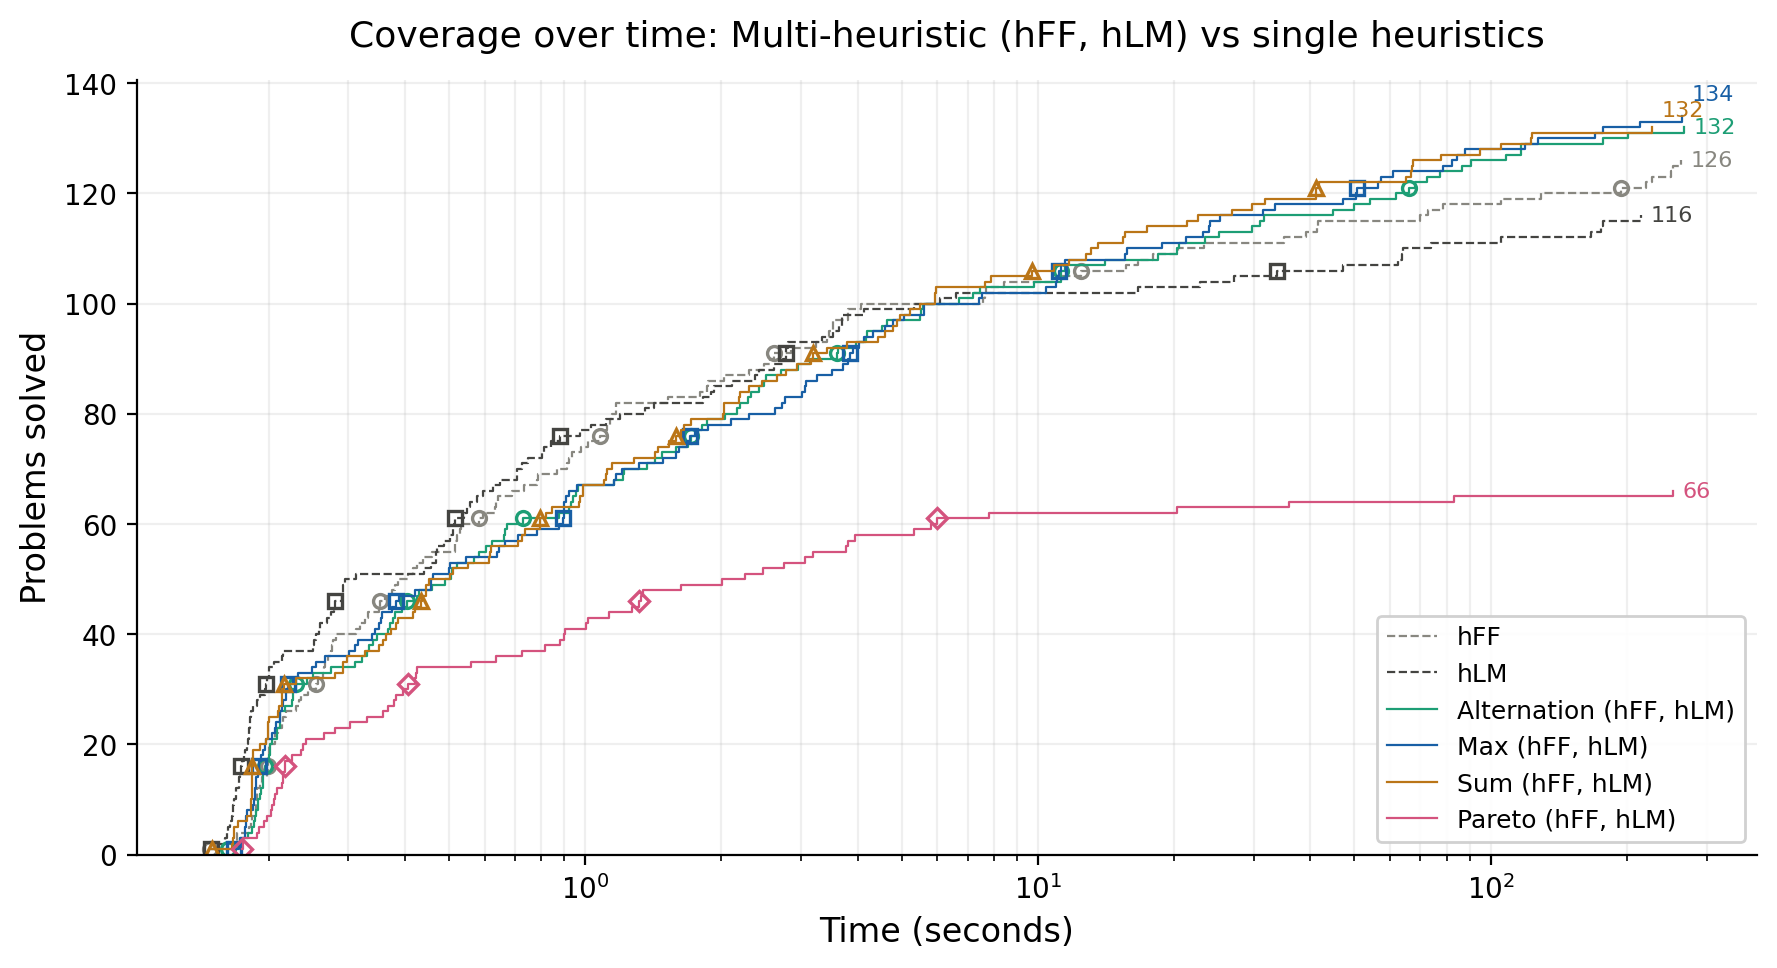
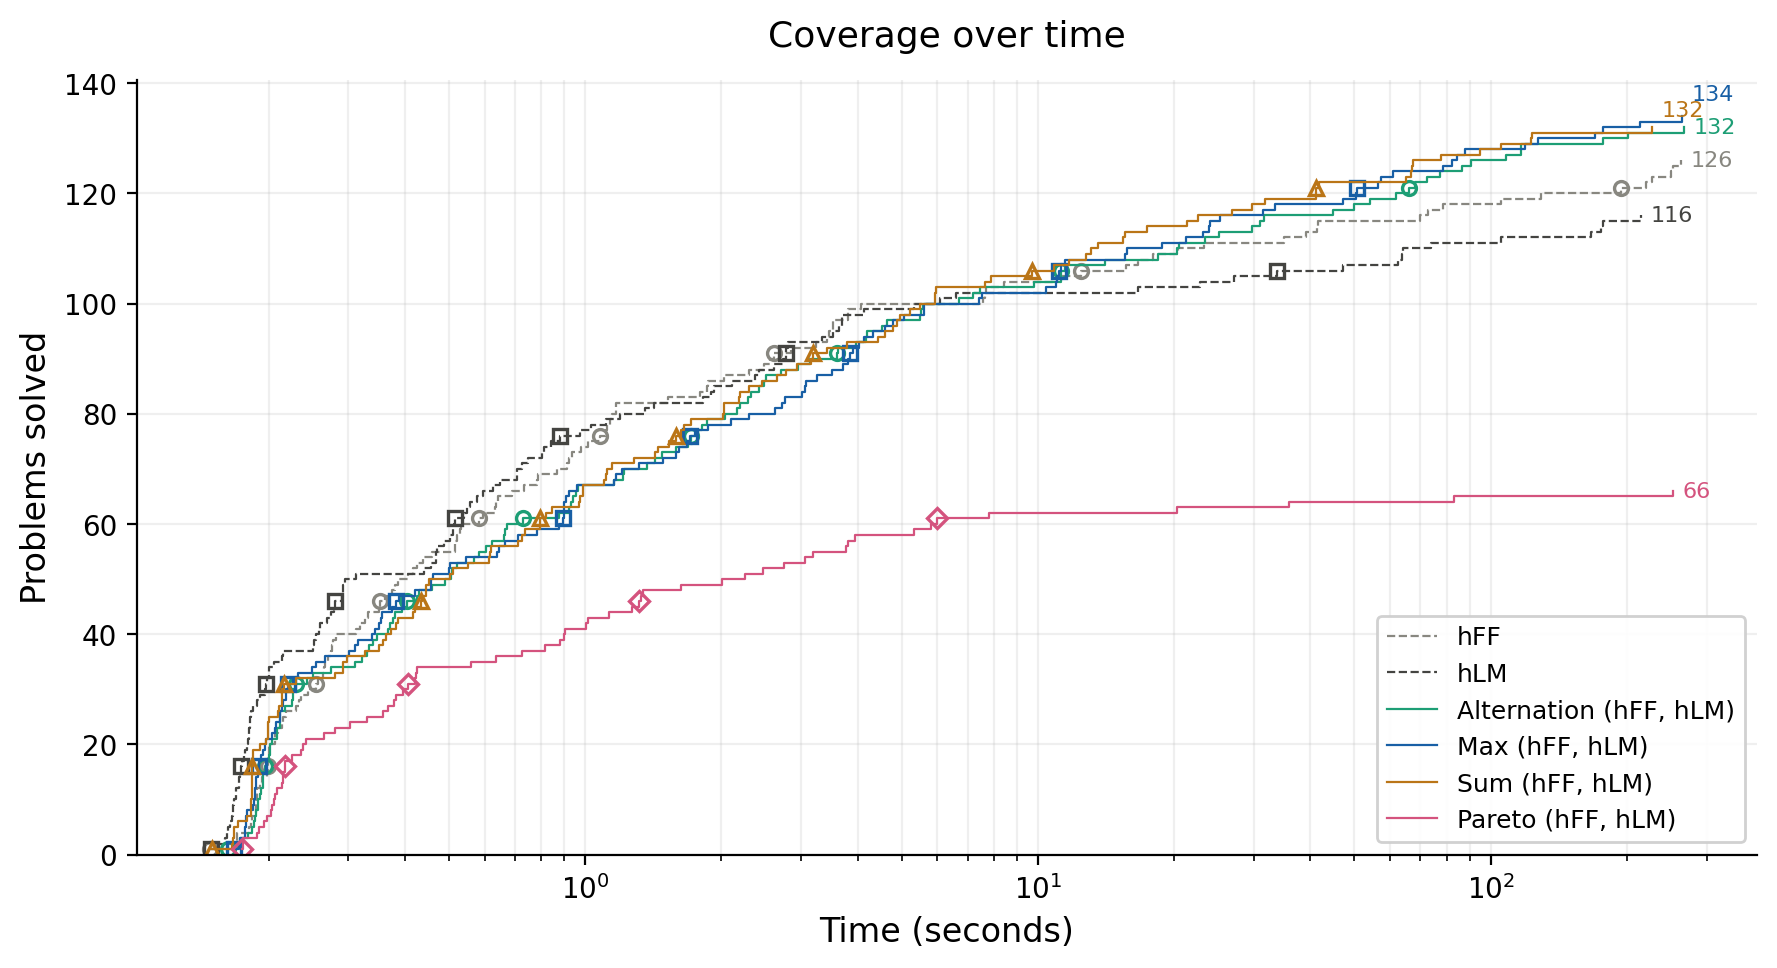
final changes

Changed region(s): [[0.1857, 0.0, 0.8666, 0.062]]

diff --git a/pyperplan/search/gbfs_multi.py b/pyperplan/search/gbfs_multi.py
@@ -102,6 +102,9 @@ class AlternationOpenList:
     One queue per heuristic, round-robin pop.
     Each node is pushed into all queues so every heuristic gets a turn.
     Duplicate pops are discarded by the closed set in gbfs_multi_search.
+
+    The turn only advances when a node is actually expanded (not closed),
+    ensuring each heuristic gets a fair share of the search.
     """
 
     def __init__(self, n_heuristics):
@@ -116,69 +119,73 @@ class AlternationOpenList:
         self._tiebreaker += 1
 
     def pop(self):
-        # Try each queue starting from the current turn; skip empty ones.
+        # Pop from current turn without advancing.
+        # Skip empty queues only.
         for _ in range(self._n):
             queue = self._queues[self._turn]
-            self._turn = (self._turn + 1) % self._n
             if queue:
                 _, _, node = heapq.heappop(queue)
                 return node
+            self._turn = (self._turn + 1) % self._n
         raise IndexError("pop from empty AlternationOpenList")
 
+    def advance_turn(self):
+        # Advance to the next heuristic for the next pop.
+        self._turn = (self._turn + 1) % self._n
+
     def __len__(self):
-        # A node is pushed into all n queues simultaneously. max() reflects
-        # the number of distinct nodes still present in the open list
-        # Returns 0 only when every queue is empty.
         return max(len(q) for q in self._queues)
 
 
 class ParetoOpenList:
     """
-    Keeps only non-dominated states on the frontier.
+    Maintains all open states and selects from the Pareto frontier on pop.
 
     State s dominates s' if:
       h_i(s) <= h_i(s')  for all i, AND
       h_j(s) <  h_j(s')  for at least one j.
 
-    Pop selects uniformly at random.
+    All states are inserted unconditionally. On pop, the Pareto frontier
+    (non-dominated states) is computed and one is selected uniformly at random.
     """
 
     def __init__(self):
-        self._frontier = []  # list of (h_values_tuple, node)
+        self._open = []  # list of (h_values_tuple, tiebreaker, node)
+        self._tiebreaker = 0
+
+    def push(self, node, h_values):
+        self._open.append((tuple(h_values), self._tiebreaker, node))
+        self._tiebreaker += 1
 
     def _dominates(self, h1, h2):
         return all(v1 <= v2 for v1, v2 in zip(h1, h2)) and any(
             v1 < v2 for v1, v2 in zip(h1, h2)
         )
 
-    def push(self, node, h_values):
-        h_values = tuple(h_values)
-
-        # Discard the new node if any existing frontier member dominates it.
-        for existing_h, _ in self._frontier:
-            if self._dominates(existing_h, h_values):
-                return
-
-        # Remove existing members that the new node dominates.
-        self._frontier = [
-            (h, n) for h, n in self._frontier if not self._dominates(h_values, h)
-        ]
-
-        self._frontier.append((h_values, node))
+    def _pareto_frontier(self):
+        frontier = []
+        for i, (h1, t1, n1) in enumerate(self._open):
+            dominated = any(
+                self._dominates(h2, h1)
+                for j, (h2, t2, n2) in enumerate(self._open)
+                if i != j
+            )
+            if not dominated:
+                frontier.append((h1, t1, n1))
+        return frontier
 
     def pop(self):
-        if not self._frontier:
+        if not self._open:
             raise IndexError("pop from empty ParetoOpenList")
 
-        # Uniform random selection over the Pareto frontier.
-        idx = random.randrange(len(self._frontier))
-        _, node = self._frontier[idx]
-        self._frontier[idx] = self._frontier[-1]
-        self._frontier.pop()
+        frontier = self._pareto_frontier()
+        chosen = random.choice(frontier)
+        self._open.remove(chosen)
+        _, _, node = chosen
         return node
 
     def __len__(self):
-        return len(self._frontier)
+        return len(self._open)
 
 
 OPEN_LIST_TYPES = ("single", "max", "sum", "alternation", "pareto")
@@ -209,8 +216,9 @@ def gbfs_multi_search(task, heuristics, open_list_type="alternation"):
     Greedy Best-First Search with multiple heuristics.
 
     All open list variants share the same graph-search loop. A closed set
-    guarantees each state is expanded at most once. GBFS is not optimal,
-    so we don't need to track g-values or f-values.
+    guarantees each state is expanded at most once. GBFS does not care about
+    path cost, so every non-closed, non-dead-end successor is pushed onto the
+    open list unconditionally.
     """
     if not isinstance(heuristics, list):
         heuristics = [heuristics]
@@ -221,7 +229,6 @@ def gbfs_multi_search(task, heuristics, open_list_type="alternation"):
         raise ValueError("Single open list supports only one heuristic.")
 
     open_list = make_open_list(open_list_type, n)
-
     # Closed set: states already expanded, each at most once.
     closed = set()
     expansions = 0
@@ -229,8 +236,8 @@ def gbfs_multi_search(task, heuristics, open_list_type="alternation"):
     root = searchspace.make_root_node(task.initial_state)
     init_h = _evaluate(root, heuristics)
 
-    # Prune if all heuristics agree the initial state is a dead end.
-    if all(h == float("inf") for h in init_h):
+    # Prune if any heuristic says the initial state is a dead end.
+    if any(h == float("inf") for h in init_h):
         logging.info("Initial state is a dead end.")
         return SearchResult(solution=None, expansions=0, plan_length=None, solved=False)
 
@@ -245,25 +252,32 @@ def gbfs_multi_search(task, heuristics, open_list_type="alternation"):
             continue
         closed.add(node.state)
 
+        # Advance alternation turn only after a real expansion,
+        # not on skipped closed nodes.
+        if isinstance(open_list, AlternationOpenList):
+            open_list.advance_turn()
+
         expansions += 1
 
         if task.goal_reached(node.state):
             sol = node.extract_solution()
-
             return SearchResult(
-                solution=sol, expansions=expansions, plan_length=len(sol), solved=True
+                solution=sol,
+                expansions=expansions,
+                plan_length=len(sol),
+                solved=True,
             )
 
         for op, succ_state in task.get_successor_states(node.state):
-            # Skip already-expanded states
+            # Skip already-expanded states.
             if succ_state in closed:
                 continue
 
             succ_node = searchspace.make_child_node(node, op, succ_state)
             succ_h = _evaluate(succ_node, heuristics)
 
-            # Prune only if ALL heuristics agree the state is a dead end.
-            if all(h == float("inf") for h in succ_h):
+            # Prune if any heuristic considers the successor a dead end.
+            if any(h == float("inf") for h in succ_h):
                 continue
 
             open_list.push(succ_node, succ_h)

diff --git a/experiments.py b/experiments.py
@@ -19,10 +19,10 @@ def run_pyperplan(domain, problem, heuristics, openlist, timeout=TIME_LIMIT):
         sys.executable,
         "-m",
         "pyperplan",
-        "-s",
-        "gbfs_multi",
         "-H",
         heuristics,
+        "-s",
+        "gbfs_multi",
         "-openlist",
         openlist,
         str(domain),
@@ -43,7 +43,7 @@ def run_pyperplan(domain, problem, heuristics, openlist, timeout=TIME_LIMIT):
             match = re.search(r"Plan length:\s*(\d+)", output)
             metrics["plan_length"] = int(match.group(1)) if match else None
 
-            match = re.search(r"Expanded nodes:\s*(\d+)", output)
+            match = re.search(r"Nodes expanded:\s*(\d+)", output)
             metrics["expansions"] = int(match.group(1)) if match else None
         else:
             metrics["plan_length"] = None

diff --git a/plots.py b/plots.py
@@ -1,7 +1,6 @@
-#!/usr/bin/env python3
-"""Generate experiment plots for the multi-heuristic GBFS project.
+"""Generate experiment plots.
 
-Three plots are produced:
+Three plots are generated based on the CSV results from experiments.py:
   1. Cactus plot  - coverage over time, all strategies on hFF + hLM pair
                    with hFF and hLM as individual baselines.
   2. Heatmap      - problems solved per strategy per domain.
@@ -50,7 +49,7 @@ Q3_CONFIGS = [
 ]
 
 
-# Data loading
+# Load data
 
 
 def latest(pattern: str) -> Path | None:
@@ -88,9 +87,6 @@ def load_data() -> dict:
         dfs["Max (hAdd, hFF, hLM)"] = df3[df3["strategy"] == "max"]
 
     return dfs
-
-
-# Shared helper
 
 
 def draw_cactus(ax, times, label, color, linestyle="-"):

diff --git a/project_instructions.md b/project_instructions.md
@@ -1,0 +1,120 @@
+# Information & Instructions 
+### Topic: Satisficing Search with Multiple Heuristics
+#### Purpose: To understand the effect of using multiple heurics compared to using a single heuristic in GBFS.
+
+For this project a new GBFS implementation which supports five open list strategies (single and multiple heuristics) is added in [Pyperplan](https://github.com/aibasel/pyperplan):
+**Single**, **Max**, **Sum**, **Alternation**, and **Pareto**.
+
+
+
+---
+### Open list strategies (`-openlist`)
+
+| Strategy | Description |
+|----------|-------------|
+| `single` | Standard single-heuristic GBFS (one heuristic only) |
+| `max` | States ordered by max(h₁, ..., hₙ) |
+| `sum` | States ordered by sum(h₁, ..., hₙ) |
+| `alternation` | One queue per heuristic (Round-robin order) |
+| `pareto` | Randomly selects from the Pareto frontier |
+
+
+---
+
+## Usage
+
+The `gbfs_multi` implementation accepts a list of heuristics, an open list strategy, and a PDDL domain and problem file: 
+
+    python -m pyperplan -H <heuristics> -s gbfs_multi -openlist <strategy> DOMAIN PROBLEM
+
+To use multiple heuristics, separate them with a comma and no spaces: `-H hff,landmark`
+
+##### Examples:
+
+To use gbfs with a single hff heuristic, run:
+
+    python -m pyperplan -H hff -s gbfs_multi -openlist single DOMAIN PROBLEM
+
+To use alternation with two heuristics (hff and landmark), run:
+
+    python -m pyperplan -H hff,landmark -s gbfs_multi -openlist alternation DOMAIN PROBLEM
+
+To use max with two heuristics (hff and landmark):
+
+    python -m pyperplan -H hff,landmark -s gbfs_multi -openlist max DOMAIN PROBLEM
+
+Pareto with two heuristics (hff and hadd):
+
+    python -m pyperplan -H hff,hadd -s gbfs_multi -openlist pareto DOMAIN PROBLEM
+
+Same goes for using more than two heuristics, for example to use alternation with three heuristics run:
+    
+    python -m pyperplan -H hadd,hff,landmark -s gbfs_multi -openlist alternation DOMAIN PROBLEM
+---
+
+## Experiments
+
+The experiments were designed to answer these questions:
+ 
+1. Does using multiple heuristics improve search performance over a single heuristic?
+2. If yes, which strategy works best and how does performance vary across domains?
+3. Is it true that the more heuristics we use, the better search performance gets?
+ 
+- **Experiment 1** - Single heuristic: each heuristic
+  is run across all domains to choose a baseline.
+- **Experiment 2** - Two-heuristic combinations: all four multi-heuristic open list strategies (Max, Sum,
+  Alternation, Pareto) are tested on four heuristic pairs across all domains.
+  Results are compared against the single heuristic baselines to answer the first and second question.
+- **Experiment 3** - Three-heuristic combination: Alternation and Max are tested with three
+  heuristics (hAdd, hFF, hLM) and compared against their two-heuristic counterparts.
+
+`experiments.py` script runs all experiments mentioned above:
+
+    python experiments.py
+
+After run, the script shows an interactive menu to select which experiment
+to run (single heuristics, two heuristics, three heuristics, or all at once). For the second experiment, you will be asked which strategy to run (Max, Sum, Alternation, Pareto, or all).
+
+Results are saved to CSV files in `experiment_results/`:
+
+- `experiment_results/exp1_<timestamp>.csv` - single heuristic baselines
+- `experiment_results/exp2_<strategy>_<timestamp>.csv` - two-heuristic combinations
+- `experiment_results/exp3_<timestamp>.csv` - three-heuristic combinations
+
+## Benchmark Domains
+
+The following domains from the `benchmarks/` were used for the experiments:
+
+| Domain | Tasks | Description |
+|--------|-------|-------|
+| `blocks` | 35 | Classic blocks world |
+| `logistics` | 28 | Package delivery |
+| `zenotravel` | 20 | Travel planning |
+| `parcprinter` | 30 | Large action costs |
+| `sokoban` | 30 | NP-complete puzzle |
+
+---
+
+## Plots
+
+To generate plots with the results of experiments, run:
+
+    python plots.py
+
+Plots are saved to the `plots/` directory:
+
+- `coverage_over_time.png` - cactus plot comparing all strategies 
+- `heatmap.png` - coverage per strategy per domain
+- `heuristic_scaling.png` - effect of adding a third heuristic 
+
+---
+
+## Small Notes
+
+#### Purpose of 'SearchResult':
+To be able to run multiple configurations at once for the experiments, `gbfs_multi_search` returns a `SearchResult` namedtuple instead of plain plan or `None` like other search algorithms in Pyperplan do. So instead of calling the planner separately for each problem via the command line, `experiments.py` script is used. 
+`SearchResult` tracks the solution, solved status, expansion count and    plan length in one object so all metrics can be in one place and for each experiment the domain, problem, heruristics, strategy, runtime and timeout status are saved in CSV files for analysis.
+
+#### Pareto Results
+The current experimental results for the Pareto approach were obtained from an earlier implementation in which I did a mistake filtering dominated states at insertion time instead at pop time. By the time I identified and fixed this issue it was too late to rerun all configurations for Pareto before the deadline. So the current Pareto implementation is correct, but the current reported results do not correspond to it. 
+
